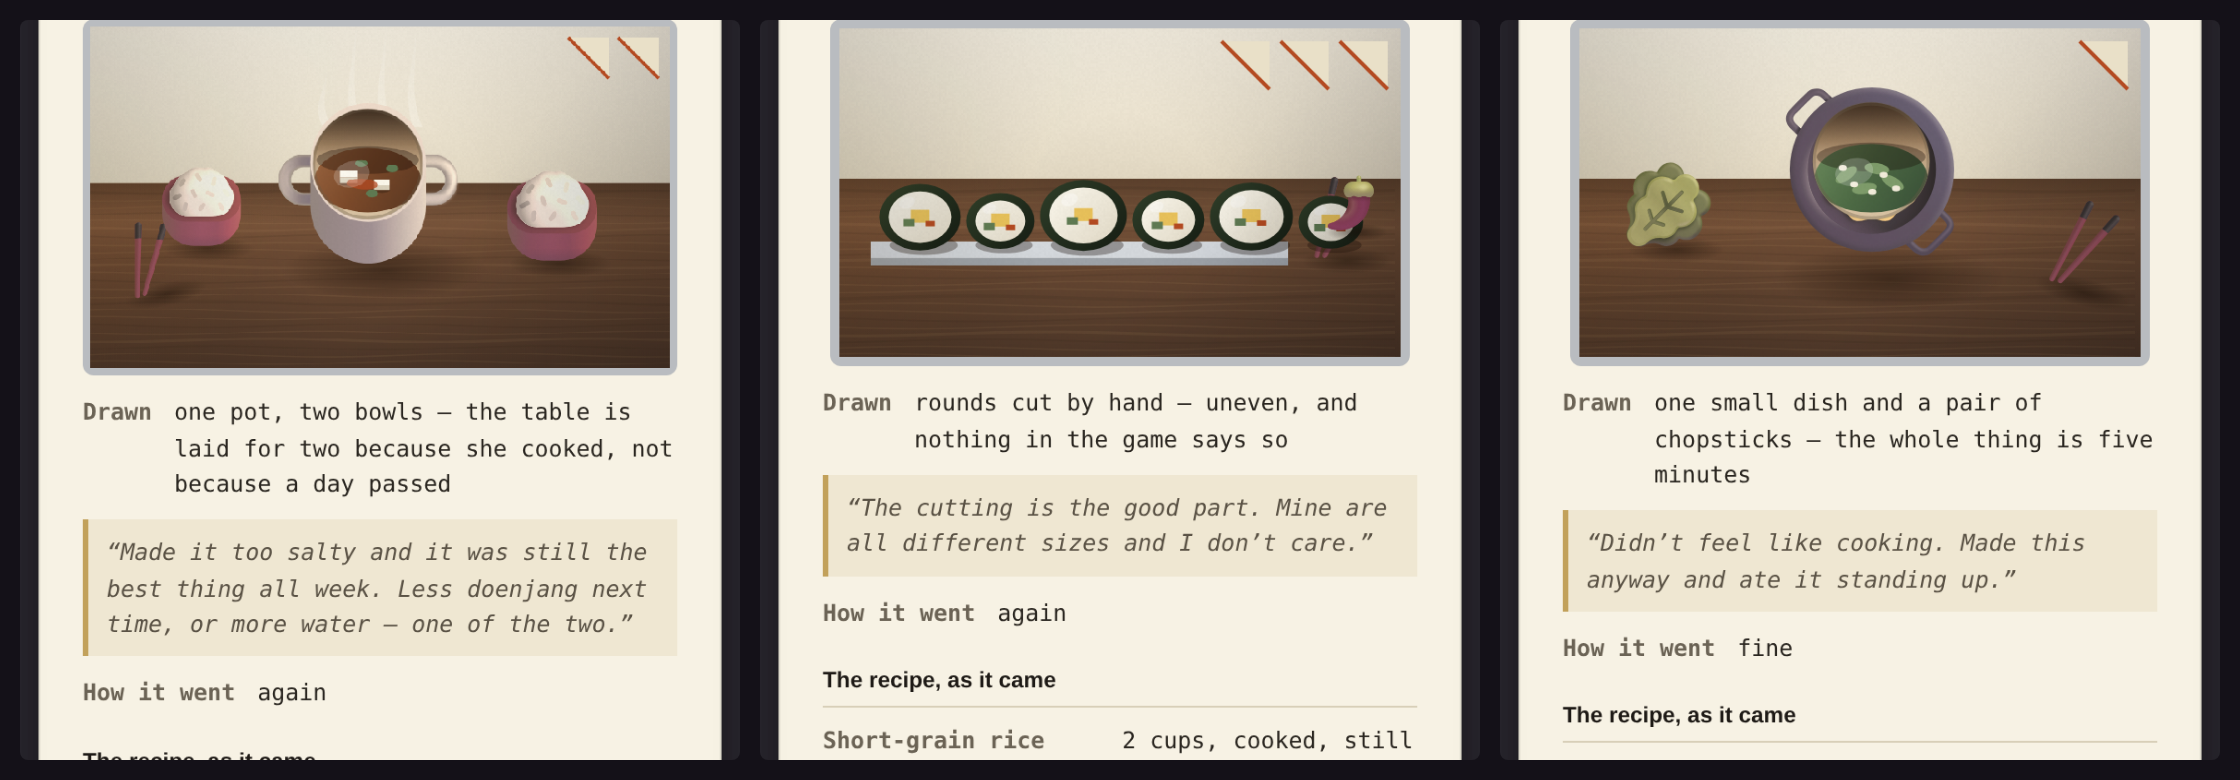
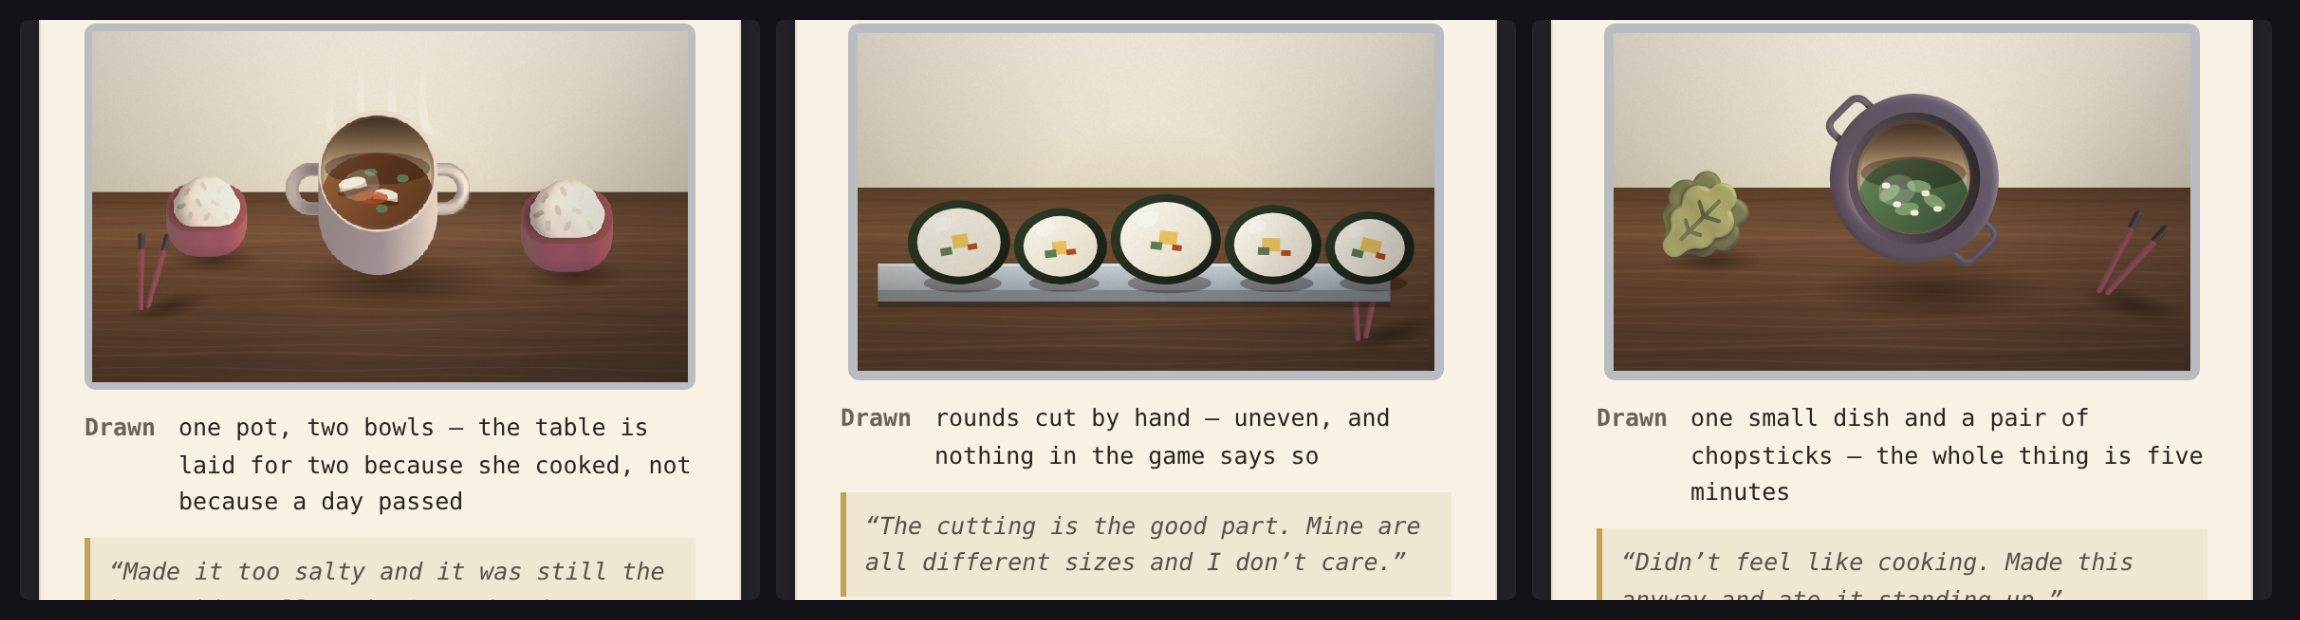
The cold read, and five things it found that measurement had not
Somebody was shown the three pictures with the text masked and asked to name
each dish before reading a word. Owed since §19.6, never done until now.

Jjigae: "a pot of stew, laid for two" — hit, first time. Kimbap: "sushi rolls,
and one of them has a creature on it". Namul: "I can't tell", and the five
sesame seeds read as a face with eyes. One hit, one hit with a monster on it,
one miss.

And the sentence that summarises the whole day's art: A PERSON MADE THE ROOM,
AND A MACHINE PUT THE FOOD IN IT. Every fault was an object placed in the room;
the room was the one thing he said not to touch.

Fixed because of it. The chilli: 30x34, under the "can be seen" floor and still
the loudest thing in the frame, read as a magenta banana in a hat with a pin
through its back and two pink legs — the legs being the chopsticks behind the
last roll — and not in that page's recipe. Deleted. The private mark: 2/3/1 red
slashes in the same corner of three pages, read cold as tally marks, with a
crease measuring Δ126 from the wall, the highest contrast anywhere on the page.
That is a star rating with the stars replaced by slashes, which is precisely
what §19.5 forbids. Deleted from the art; the mark is already words. The tan
crescent: still present in both pots at Δ117 WHILE THIS FILE CLAIMED IT WAS
FIXED — and the arithmetic agreed, 0.90r of liquid inside a 1.02r clip. Fixed by
arithmetic this time. The tofu: two pure-white axis-aligned rectangles at Δ196,
[…]

diff --git a/docs/mocks/2026-09-15-simmer-book/render-borrowed.js b/docs/mocks/2026-09-15-simmer-book/render-borrowed.js
@@ -107,7 +107,12 @@ const OPEN=JSON.parse(fs.readFileSync(path.join(__dirname,'icon-openings.json'),
        const sh=g.createLinearGradient(0,cy-r,0,cy-r*0.15);
        sh.addColorStop(0,"rgba(30,18,10,0.55)");sh.addColorStop(1,"rgba(30,18,10,0)");
        g.fillStyle=sh;g.fillRect(cx-r*1.1,cy-r*1.1,r*2.2,r*1.1);
-       const ly=cy+r*0.30, lrx=r*0.99, lry=r*0.60;                    /* the liquid, an ELLIPSE, reaching the near rim */
+       /* THE CRESCENT, for the second time, and this time by arithmetic rather than by eye. The clip
+          is r*1.02; the liquid was at ly=0.30r with lry=0.60r, so its near edge reached 0.90r and left
+          0.12r of bare inner wall — 3.5 CSS px at Δ117, which a cold reader called "a lily pad
+          levitating with a gap all round". A register in this folder claimed this was fixed; the
+          pixels disagreed and the pixels win. ly+lry must EXCEED the clip. */
+       const ly=cy+r*0.36, lrx=r*0.99, lry=r*0.70;
        const br=g.createLinearGradient(cx-lrx,ly-lry,cx+lrx,ly+lry);
        br.addColorStop(0,o.high||"#9A6540");br.addColorStop(0.45,o.base||"#7C4A2A");br.addColorStop(1,o.core||"#583621");
        g.fillStyle=br;g.beginPath();g.ellipse(cx,ly,lrx,lry,0,0,7);g.fill();
@@ -132,9 +137,13 @@ const OPEN=JSON.parse(fs.readFileSync(path.join(__dirname,'icon-openings.json'),
        g.drawImage(im,cx-size/2,baseY-size,size,size);g.restore();};
      const vign=(g,W,H)=>{const vg=g.createRadialGradient(W/2,H*0.55,Math.min(W,H)*0.28,W/2,H*0.55,Math.max(W,H)*0.8);
        vg.addColorStop(0,"rgba(0,0,0,0)");vg.addColorStop(1,"rgba(28,18,10,0.28)");g.fillStyle=vg;g.fillRect(0,0,W,H);};
-     const folds=(g,W,H,n)=>{const s=26;for(let i=0;i<n;i++){const x=W-12-i*(s+6),y=12;
-       g.fillStyle="#E9E0C8";g.beginPath();g.moveTo(x,y);g.lineTo(x-s,y);g.lineTo(x,y+s);g.closePath();g.fill();
-       g.strokeStyle="#B44A21";g.lineWidth=2;g.beginPath();g.moveTo(x-s,y);g.lineTo(x,y+s);g.stroke();}};
+     /* THE FOLDS ARE GONE. A cold reader wrote down "two set-squares", "tally marks", "a placeholder
+        for an image that failed to load" — and the counts really were 2 / 3 / 1 in the same corner of
+        three pages, which is a star rating with the stars replaced by slashes: the one thing §19.5
+        says the mark must never be. The crease line also measured Δ126 from the wall, the highest
+        contrast anywhere on the page, louder than any food. The mark already exists in words on the
+        page ("How it went — again"), which nobody misread. */
+     const folds=()=>{};
      const O=window.__OPEN;
      const P={
        jjigae:{t:"Doenjang jjigae",folds:2,
@@ -154,12 +163,23 @@ const OPEN=JSON.parse(fs.readFileSync(path.join(__dirname,'icon-openings.json'),
               of 1.04, i.e. the contents really are a circle. */
            const OP=O["pot-of-food"];
            potFace(g, PX+S*(OP.cx-0.5), PY-S+S*OP.cy, S*OP.rx*1.03, {top:(g,cx,ly,lrx,lry)=>{
-             const cube=(x,y,w,h)=>{g.fillStyle="rgba(24,12,6,0.30)";
-               g.beginPath();g.ellipse(x+w/2,y+h*0.95,w*0.55,h*0.28,0,0,7);g.fill();
-               g.fillStyle="#FBF7EA";g.fillRect(x,y,w,h*0.55);
-               g.fillStyle="#D9D0BA";g.fillRect(x,y+h*0.55,w,h*0.45);};
-             cube(cx-lrx*0.52,ly-lry*0.30,11,8);
-             cube(cx+lrx*0.12,ly-lry*0.02,10,7);
+             /* the tofu was two pure-white axis-aligned rectangles, 9x4 CSS px at Δ196 against the
+                broth — the highest-contrast mark in the whole vessel, and a cold reader saw "two
+                blank white labels floating in the soup". A cube lying on a foreshortened surface
+                needs a foreshortened TOP, a dark side, and to be off-axis. And it must not be the
+                brightest thing in the picture. */
+             const cube=(x,y,w,rot)=>{const h=w*0.62;
+               g.save();g.translate(x,y);g.rotate(rot);
+               g.fillStyle="rgba(24,12,6,0.34)";
+               g.beginPath();g.ellipse(0,h*0.50,w*0.60,h*0.26,0,0,7);g.fill();
+               g.fillStyle="#C9BCA2";                                   /* the side, turned away */
+               g.beginPath();g.moveTo(-w/2,0);g.lineTo(w/2,0);g.lineTo(w/2,h*0.42);g.lineTo(-w/2,h*0.42);
+               g.closePath();g.fill();
+               g.fillStyle="#EFE7D3";                                   /* the top, foreshortened */
+               g.beginPath();g.ellipse(0,0,w/2,h*0.30,0,0,7);g.fill();
+               g.restore();};
+             cube(cx-lrx*0.46,ly-lry*0.26,17,-0.22);
+             cube(cx+lrx*0.16,ly+lry*0.04,15,0.14);
              g.fillStyle="#5F7A52";
              [[-0.12,-0.52],[0.46,-0.36],[0.08,0.42]].forEach(([a,b])=>{
                g.beginPath();g.ellipse(cx+lrx*a,ly+lry*b,4,2.4,0,0,7);g.fill();});
@@ -176,28 +196,52 @@ const OPEN=JSON.parse(fs.readFileSync(path.join(__dirname,'icon-openings.json'),
          art:(g,W,H)=>{const cy=stage(g,W,H);
            /* NO borrowed dish here: the nearest icon is nigiri and nigiri is not kimbap. So the room
               is borrowed and the dish is ours — which is the mix, demonstrated rather than argued. */
-           put(g,"chopsticks",W*0.88,cy+46,50);
-           g.fillStyle="#D4D8DC";g.fillRect(W*0.07,cy+34,W*0.72,9);        /* a steel board */
-           g.fillStyle="#9EA3A8";g.fillRect(W*0.07,cy+43,W*0.72,4);
-           const d=[44,37,47,39,45,35], gap=3;                              /* uneven: her cuts */
-           let x=W*0.085;
+           g.save();g.translate(W*0.90,cy+80);g.rotate(-0.30);   /* on the counter, in front, whole */
+           put(g,"chopsticks",0,0,52);g.restore();
+           /* A BOARD IS A SLAB, NOT A DISC. The pass before drew an ellipse and put the shadows 6px
+              below the rolls on top of it, and it read as a paint palette with holes in it. A board
+              has a top face you see foreshortened and a front edge with thickness, and the thing
+              standing on it touches its own shadow. */
+           const BX=W*0.05, BW=W*0.86, BY=cy+46;
+           g.fillStyle="#7E858B";g.fillRect(BX,BY+8,BW,6);                    /* the front edge */
+           g.fillStyle="rgba(26,16,10,0.35)";g.fillRect(BX,BY+14,BW,3);       /* its shadow on the counter */
+           const face=g.createLinearGradient(0,BY-6,0,BY+9);
+           face.addColorStop(0,"#C9D0D6");face.addColorStop(1,"#9FA7AE");     /* steel, not white */
+           g.fillStyle=face;g.fillRect(BX,BY-6,BW,14);
+           g.fillStyle="rgba(255,255,255,0.35)";g.fillRect(BX,BY-6,BW,1.5);
+           /* FIVE, not six, and sized as a random walk. 44/36/46/38/44/34 alternated big-small-big
+              at 1.2:1, which a cold reader called a rendering bug before reading the caption that
+              claims they were cut by hand. A hand gives a walk, not a sawtooth. And every one was
+              under §19.3's 48px "can be seen" floor. */
+           const d=[54,49,58,51,47], gap=2;
+           let x=W*0.10;
            d.forEach(sz=>{
-             const ccx=x+sz/2, ccy=cy+34-sz*0.30;
+             const ccx=x+sz/2, ccy=BY+5-sz*0.41;              /* its BOTTOM lands ON the board's face */
              g.fillStyle="rgba(26,16,10,0.34)";
-             g.beginPath();g.ellipse(ccx+2,cy+36,sz*0.42,sz*0.12,0,0,7);g.fill();
+             g.beginPath();g.ellipse(ccx+2,ccy+sz*0.40,sz*0.38,sz*0.09,0,0,7);g.fill();
              const nori=g.createLinearGradient(ccx-sz/2,ccy-sz/2,ccx+sz/2,ccy+sz/2);
              nori.addColorStop(0,"#31402A");nori.addColorStop(1,"#141B12");
              g.fillStyle=nori;g.beginPath();g.ellipse(ccx,ccy,sz/2,sz/2*0.82,0,0,7);g.fill();
              const rice=g.createLinearGradient(ccx-sz/2,ccy-sz/2,ccx+sz/2,ccy+sz/2);
              rice.addColorStop(0,"#FFFDF4");rice.addColorStop(1,"#DCD3BE");
              g.fillStyle=rice;g.beginPath();g.ellipse(ccx,ccy,sz/2-5,(sz/2-5)*0.82,0,0,7);g.fill();
-             g.fillStyle="#E8C15A";g.fillRect(ccx-5,ccy-4,10,7);
-             g.fillStyle="#5F7A52";g.fillRect(ccx-9,ccy+1,6,4);
-             g.fillStyle="#B44A21";g.fillRect(ccx+3,ccy+2,5,3);
+             /* A HAND DOES NOT PACK SIX ROLLS IDENTICALLY. The pass before drew the same three
+                rectangles in the same arrangement in every roll, in a picture whose caption is about
+                cutting by hand — a cold reader spotted the contradiction inside one frame. Each roll
+                now gets its own jitter, and no filling is axis-aligned. */
+             const j=(k)=>((Math.sin(ccx*12.9898+k*78.233)*43758.5453)%1+1)%1-0.5;
+             g.save();g.translate(ccx,ccy);g.rotate(j(1)*0.5);
+             g.fillStyle="#E8C15A";g.fillRect(-5+j(2)*4,-4+j(3)*3,9+j(4)*3,7);
+             g.fillStyle="#5F7A52";g.fillRect(-9+j(5)*3,1+j(6)*3,6,4);
+             g.fillStyle="#B44A21";g.fillRect(3+j(7)*3,2+j(8)*2,5,3);
+             g.restore();
              g.save();g.globalAlpha=0.35;g.fillStyle="#FFFFFF";
              g.beginPath();g.ellipse(ccx-sz*0.16,ccy-sz*0.18,sz*0.10,sz*0.07,-0.4,0,7);g.fill();g.restore();
              x+=sz+gap;});
-           put(g,"hot_pepper",W*0.90,cy+30,34);
+           /* NO CHILLI. At 30x34 it is under §19.3's "seen" floor and was still the loudest object in
+              the frame — a cold reader saw "a fat magenta banana in a hat with a pin through its back
+              and two pink legs", the legs being the chopsticks drawn behind the last roll. It is also
+              not in this page's recipe. Both removed. */
            relight(g,W,H);vign(g,W,H);grain(g,W,H);folds(g,W,H,3);frame(g,W,H);},
          drew:"rounds cut by hand — uneven, and nothing in the game says so",
          said:"“The cutting is the good part. Mine are all different sizes and I don’t care.”",

diff --git a/docs/mocks/2026-09-15-simmer-book/LICENCES.md b/docs/mocks/2026-09-15-simmer-book/LICENCES.md
@@ -42,6 +42,12 @@ Three pages rendered. What arrived:
 | **Namul** | a cabbage, a pan of yellow rice, chopsticks | **reads as a kitchen, not as this dish.** The pan is paella; the green is a cabbage, not blanched spinach |
 | **Kimbap** | four pink-and-cream stacks | **fails.** The nearest icon is nigiri, and nigiri is not kimbap; after the palette tint it reads as small sandwiches |
 
+> **This table described the 2026-09-15 midday render and was left standing after two rebuilds.** A
+> cold reader caught it: the pictures had six green-ringed rolls and a purple pan with green contents
+> while the register still said pink stacks and paella. **A verdict table has to name the render it
+> judged.** The current state is §"The cold read" below; the rows above are kept as the record of
+> what the borrowed set looked like before the repaint, and nothing more.
+
 **The pattern, and it is the finding:** borrowed art buys **craft** immediately and buys **accuracy**
 not at all. Every object is well drawn and approximately food. None of them is the dish named above
 it. The tint that pulls the palette into the room also costs recognition — it is a trade, not a free
@@ -123,3 +129,44 @@ does, and the kimbap page is the only one whose dish *is* the dish on its label.
 `bookpages.js`, the shared light model is ~190 lines already written and **a dish is about twenty**.
 A dozen dishes is ~240 more lines on a model that holds one camera by construction, against a fresh
 negotiation with a stranger's drawing for every object, renegotiated on every set update.
+
+## The cold read — 2026-09-15, and what it changed
+
+Somebody was shown the three pictures with the text masked and asked to name each dish before reading
+a word. **This had been owed since §19.6 and had never been done.** Results:
+
+| | cold name | |
+|---|---|---|
+| **Jjigae** | *"a pot of stew, laid for two"* | **hit, first time** |
+| **Kimbap** | *"sushi rolls, and one of them has a creature on it"* | hit, with a monster on it |
+| **Namul** | *"I can't tell."* Best guess under pressure: spinach cooking in a purple pan. The five white dots read as **a face with eyes** | **miss** |
+
+**The sentence that summarises all three, and it is the most useful thing said about this art today:**
+
+> **"A person made the room, and a machine put the food in it."**
+
+Every fault found was an *object placed in* the room. The room — wood grain, the wall-to-counter line,
+one warm key across borrowed and drawn objects, the vignette, the paper grain — was the one thing the
+cold reader said not to touch.
+
+### What was fixed because of it
+
+| | what was on screen | what it is now |
+|---|---|---|
+| **The chilli** | 30×34 px — *under* the "can be seen" floor and still the loudest object in the frame. Read as *"a fat magenta banana in a hat with a pin through its back and two pink legs"*; the legs were the chopsticks drawn behind the last roll. **Not in that page's recipe.** | deleted, and the chopsticks moved onto the counter, whole |
+| **The private mark** | 2 / 3 / 1 red slashes in the same corner of three pages. Read cold as *"tally marks"*. Its crease measured **Δ126 from the wall — the highest contrast anywhere on the page, louder than any food**. That is a star rating with the stars replaced by slashes: the one thing §19.5 forbids | **deleted from the art.** The mark already exists in words on the page, and nobody misread those |
+| **The tan crescent** | still there, in both pots, at 3.5 CSS px and Δ117 — *"a lily pad levitating with a gap all round"* — **while this very file claimed it had been fixed.** The arithmetic said so too: liquid reached 0.90r inside a 1.02r clip | fixed by arithmetic rather than by eye: the liquid now exceeds the clip |
+| **The tofu** | two pure-white **axis-aligned rectangles**, 9×4 CSS px at **Δ196** — the highest-contrast mark inside the vessel. Read as *"two blank white labels floating in the soup"* | cubes with a foreshortened top, a turned side and their own shadow, off-axis, and no longer the brightest thing in the picture |
+| **The rolls** | six, **every one under the 48 px floor**, and their sizes alternated big-small-big at 1.2:1 — *"not uneven, a sawtooth; I assumed it was a rendering bug"* — in a picture captioned *cut by hand*. Their shadows were drawn **on top of** them, and they stood behind the board like a kerb | five, all above the floor, sizes as a walk; a board with a top face and a front edge; each roll seated on its own shadow; **and every filling jittered, because a hand does not pack six rolls identically** |
+
+### What is still true and was not fixed
+
+- **The namul pan is drawn in plan view.** No repaint fixes a vessel's camera.
+- **The three pictures are 322 / 314 / 314 CSS px wide** — the cold reader measured it and could not
+  explain it. **It is §20.2's engine fault showing up in our own mocks:** the first document opened in
+  a session is drawn at the wrong width. The jjigae renders first.
+- **Nothing breaks the rim** in any of the three, which §19.3 says is what makes a dish a dish.
+- The cold reader used the filenames, which contain the dish names, so the read was not perfectly
+  blind — and the research sweep adds a sharper requirement: **the cold read must use somebody who
+  does not know the cuisine**, because "stick to foods people know" does not apply to a Korean-first
+  pack and a Western reader has no silhouette for doenjang jjigae.
